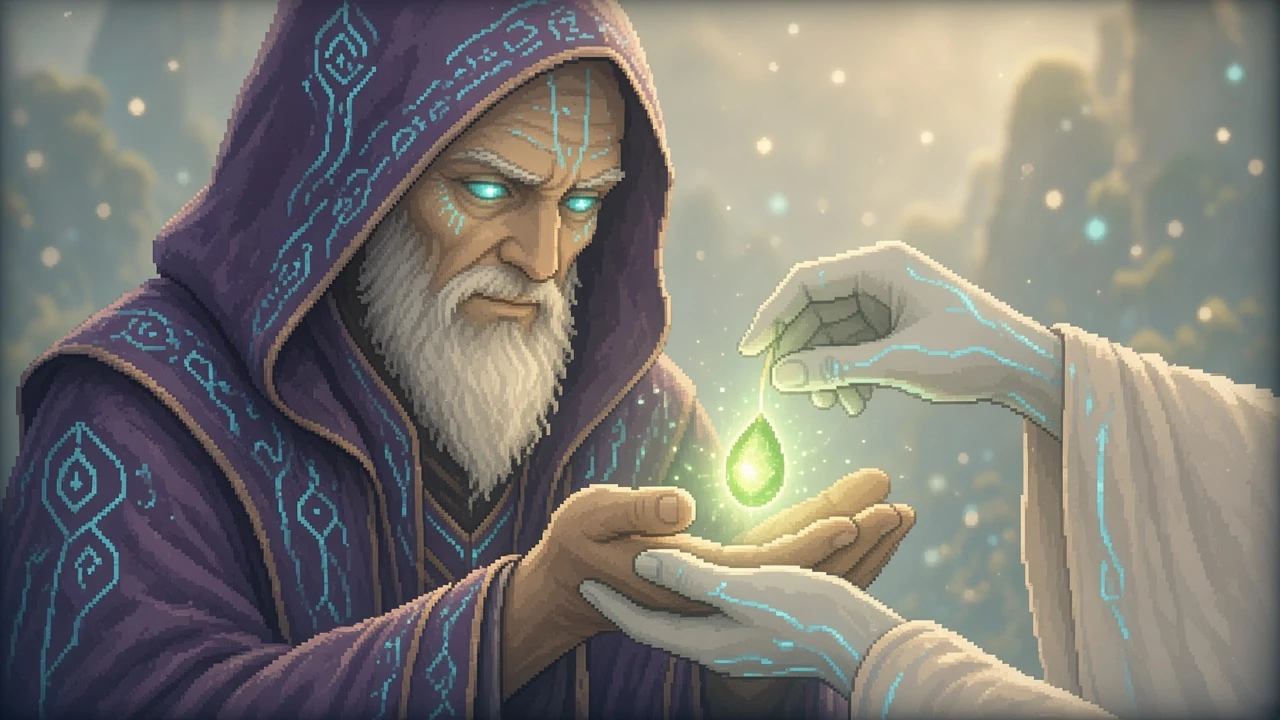
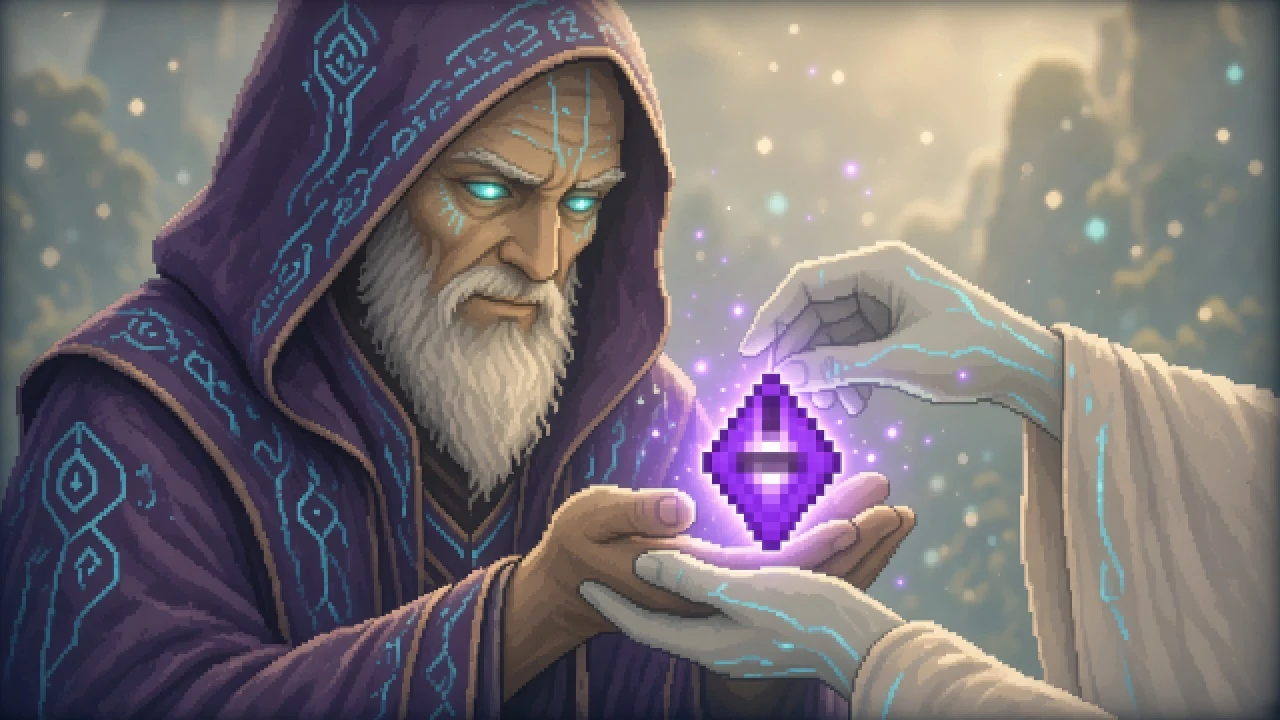
Unify memory fragment look on the purple crystal (#58).
Redraw memory3 panel 2 so the Archivist receives the same purple diamond as the map pickup, sharpen fragment.png to 32×32, and bump the overworld draw size so it reads clearly.

diff --git a/lib/cyberpunk_space_rpg/components/fragment_pickup.dart b/lib/cyberpunk_space_rpg/components/fragment_pickup.dart
@@ -20,7 +20,7 @@ class FragmentPickup extends GameDecoration {
   final bool Function()? hidden;
 
   FragmentPickup(Vector2 position, {this.onCollected, this.hidden, this.collectRadius = defaultCollectRadius})
-      : super(position: position, size: Vector2.all(18));
+      : super(position: position, size: Vector2.all(20));
 
   @override
   Future<void> onLoad() async {
@@ -55,6 +55,7 @@ class FragmentPickup extends GameDecoration {
     final cy = size.y / 2;
     final p = sin(_pulse);
 
+    // Purple halo matches the canonical fragment crystal (#58).
     canvas.drawCircle(Offset(cx, cy), 12 + p * 2,
         Paint()
           ..color = const Color(0xFFAA44FF).withValues(alpha: 0.22 + p * 0.06)
@@ -62,7 +63,8 @@ class FragmentPickup extends GameDecoration {
 
     final sprite = _sprite;
     if (sprite != null) {
-      final s = 14.0 + p * 1.5;
+      // 32×32 source; draw a touch larger so the diamond reads on the map.
+      final s = 16.0 + p * 1.5;
       sprite.render(
         canvas,
         position: Vector2(cx - s / 2, cy - s / 2),
